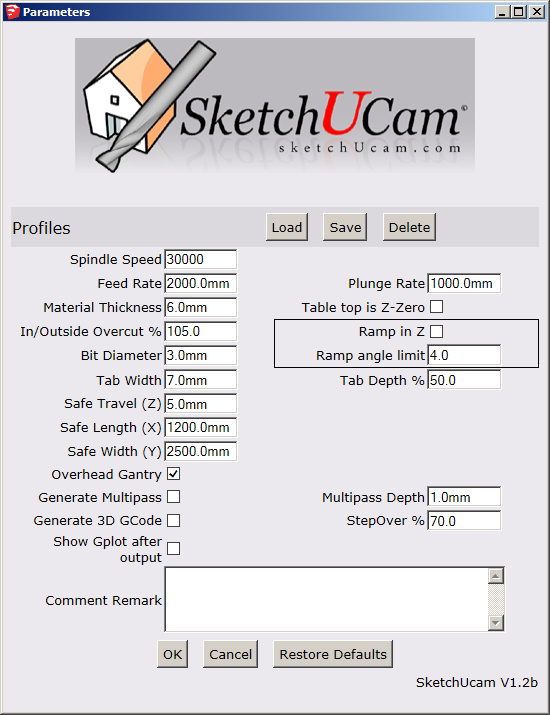
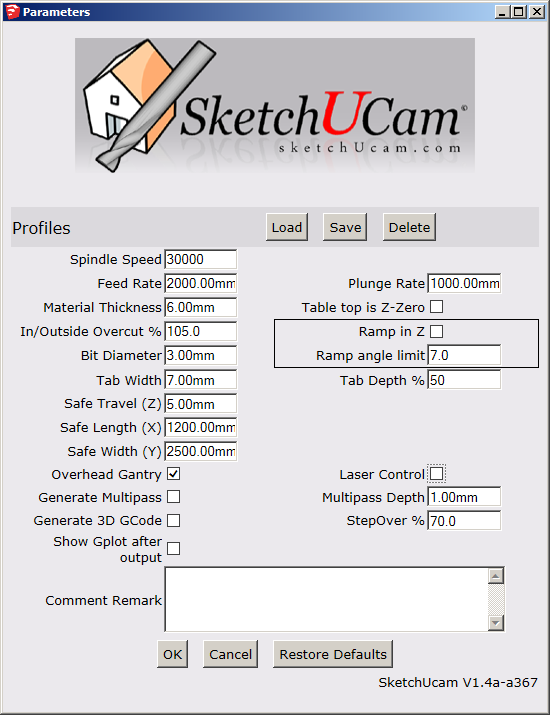
help for laser settings

diff --git a/Plugins/Phlatboyz/html/sketchucamtoolbar.html b/Plugins/Phlatboyz/html/sketchucamtoolbar.html
@@ -164,7 +164,7 @@
    <tbody>
    <tr>
       <td class="command-image" valign=top id="toolparameters">
-         <img alt="" src="../images/parameterstool_large.png" title="Enter Phlatboyz Parameters" width="32">
+         <img alt="Parameters dialog" src="../images/parameterstool_large.png" title="Enter Phlatboyz Parameters" width="32">
       </td>
       <td class="command-description">
       <img align=right src="images/params.png" title="params" border="0" style="margin-left: 10px;" alt="params menu">
@@ -201,10 +201,26 @@
          <li> "<u>Overhead Gantry</u>".  The original 2
          Phlatprinters cut from the bottom with a reversed Y axis. Use this option if you have a Phlatprinter3 or your
          cnc machine has an overhead gantry.  This will reverse the direction of the Inside and Outside cuts.<br>
-         See the <a href="howto_options.html">Options Menu help</a> for setting this as a default
-         <li style="color: red;">Laser ...
+         
+         <p>When this option is:<br>
+         <b>Ticked:</b> outside cuts will cut anticlockwise<br>(a conventional cut)<br>
+         <b>Unticked:</b>  outside cuts will cut clockwise<br>(a climb cut)
+         </p>
+         
+         See the <a href="howto_options.html">Options Menu help</a> for setting this as a default<br><br>
+         <li><u>"Laser Control"</u> [checkbox] <i>New in 1.4a</i>
+            <ul>
+            <li>Check this to control a laser engraver
+            <li>works with both Z-Zero options
+            <li>No Z motion will be in the Gcode output
+            <li>M03 (spindle on) and M05 (spindle off) will control the laser
+            <li>The S word will be set to control the brightness via PWM spindle control.
+            <li>The S word is set to a proportion of the current spindle speed, according to the depth of the cut.<br>
+               Thus a 50% deep centerline cut will set the S word to 50% of the spindle speed.
+            <li>If your laser needs on/off control, then simply always use 100% deep cuts and max spindle speed (1000rpm for default GRBL 0.9 settings).
+               With these settings the PWM control will effectively only turn hard on and hard off.
+            </ul>
          </ol>
-         <br><br>
 
          <p><u>Note</u>: When you press "OK", these settings will be saved as attributes to your
          sketchup model.  So each sketchup file will retain their individual settings.
@@ -212,12 +228,12 @@
          <br clear=all>
          <h3>Profiles</h3>
          <p class="newcolour">
-         <img alt="" src="images/profiles.png" align=right border=1  style="margin-left: 10px;">
+         <img alt="profiles" src="images/profiles.png" align=right border=1  style="margin-left: 10px;">
          New in 1.1c is the ability to save and restore tool profiles.  
          This allows you to quickly restore a tool setup that relates to a type of material or operation.  
          For example one might store the settings for a drilling operation with multipass on, low feed speeds etc.
          For a foam milling tool one can store high feed speeds, not multipass and so on.<br>
-         <img alt="" src="images/profilesave.png" align="right" border="0" style="margin-left: 10px;">
+         <img alt="profile save" src="images/profilesave.png" align="right" border="0" style="margin-left: 10px;">
          Clicking the <b>'Save'</b> button will produce a prompt for a profile name. 
          Profile names must not have spaces or punctuation in them.
          The following settings will be saved</p>
@@ -289,10 +305,34 @@
            
            <dt>Ramp in Z</dt>
            <dd>If this is unchecked Z will be plunged, if it is checked, Z will ramp into the workpiece along the first segment of the cut.   
-           Be aware that this cut may be very short and you may need to adjust cut order to get the cut to start on a longer segment.
-           The Plunge Feed Rate will be used for ramp moves.<br>
-           Note that ramping will not affect plunge holes, the center hole will still be plunged for holes larger than 2x bit diameter
-           so if your milling bit cannot plunge DO NOT use it for holes, do a separate drilling program with a drill bit.
+           Be aware that this cut may be very short and you may need to adjust cut order to get the cut to start on a longer segment.<br><br>
+           The Plunge Feed Rate will be used for ramp moves.<br><br>
+           
+           Note that <b>ramping</b> will affect <b>plunge holes</b> like this:
+           
+          <table border=1 cellpadding="5" cellspacing=0 summary="effects of plunge hole setting combinations" bgcolor="#ddeeff">
+          <tr>
+            <th>&nbsp;</th>
+            <th>dia = tooldia</th>
+            <th>tooldiam < dia <= 2D</th>
+            <th>dia > 2D</th>
+          </tr>
+          <tr>
+            <th>Stepover% < 50%</th>
+            <td style="color: red;">Will Plunge</td>
+            <td>no plunge, 2 spirals</td>
+            <td>no plunge, 2 or more spirals</td>
+          </tr>
+          <tr>
+            <th>stepover% > 50%</th>
+            <td style="color: red;">Will Plunge</td>
+            <td>no plunge, single spiral</td>
+            <td>no plunge, 2 or more spirals</td>
+          </table>
+           <p>
+           If you are making holes equal to the bit diameter in hard materials then you should use a <u>real drill bit</u> and 
+           do a seperate drilling cycle.
+           </p>
            </dd>
 
            <dt>Ramp angle limit</dt>
@@ -465,16 +505,16 @@
          
          <p>
          Feedrate in the helix will be the normal rate set for cuts.<br>
-         Downfeed will be limited to either
+         Downfeed will be limited to either</p>
          <ul>
          <li>half the bit diameter per revolution</li>
          <li>the multipass depth if multipass is on.</li>
          <li>the calculated Z feed if ramp angle is set, in order to achieve the correct helix angle.
          </ul>
-         </p>
+         
          
          <p>
-         <i>New in V1.2a</i> : <b>Plunge holes are automatically grouped.</b> <br>
+         <i>New in V1.2a</i> : <b>Plunge holes are automatically grouped.</b> </p>
             <p style="margin-left: 10px;">This (mostly) prevents underlying geometry from interfering with G-code generation. <br>
             Only an <b>underlying horizontal line will interfere</b> but in this case it is very easy to delete the 
             part that overlaps the colored 'hole' line, or, you can group the underlying line before placing the holes. <br>
@@ -482,7 +522,7 @@
             For example a plain 8mm hole will be named "_diam_8.0mm" and a depth restricted 9mm hole will be "_diam_9.0mm_depth_76.0".<br>
             This implies that holes will be cut in group order so don't forget to set the order with the Group Reorder tool if you need to. 
             </p>
-         </p>
+         
          
          
          <h4>Do many holes with large diameter</h4>
@@ -490,15 +530,15 @@
          Tap the HOME key to set 'LARGE LOCK' on and be prompted for a hole diameter that will persist until you select another tool or tap HOME again. 
          </p>
          
-         <table border=0 width=300 style="float: right;">
+         <table border=0 width=300 style="float: right;" summary="hoel patterns">
          <tr>
             <td>
-            <img src="images/holepattern01.png" align=right>
+            <img alt="hole pattern 1" src="images/holepattern01.png" align=right>
             </td>
          </tr>
          <tr>
             <td>
-            <img src="images/holepattern02.png" align=right>
+            <img alt="hole pattern 2" src="images/holepattern02.png" align=right>
             </td>
          </tr>
          </table>
@@ -509,7 +549,7 @@
          52/(7-1) =  52/6 = 8.666mm.
          </p>
          <p>If either Horiz or Vert count are '1' then you get only 1 row or column of holes.
-         <img src="images/holepattern03.png">
+         <img alt="hole pattern 3" src="images/holepattern03.png">
          </p>
          Notes:
          <ol class="newcolour">
@@ -530,18 +570,18 @@
                <li>Spiral out to desired diameter using either multipass depth layers, or a fuzzy calculated depth based on the bit diameter.
             </ol>   
             Change this option on the 
-            <a href="howto_options.html#a5"><b>Tools|PhlatBoys|Options|Hole feature options</b></a> menu<br>
-            <img src="images/options-holefeatures.png">
+            <a href="howto_options.html#a5"><b>Tools|PhlatBoys|Options|Hole feature options</b></a> menu<br><br>
+            <img alt="hole features" src="images/options-holefeatures.png">
          </ol>
       </td>
    </tr>
 
    <tr>
       <td class="command-image" valign=top id="toolcsink">
-         <img alt="" src="../images/csinktool_large.png" title="Phlatboyz Countersink Tool" width="32">
+         <img alt="countersink iamge" src="../images/csinktool_large.png" title="Phlatboyz Countersink Tool" width="32">
       </td>
       <td class="command-description">
-         <img src="images/csinkwooda.png" align=right>
+         <img alt="countersink in wood" src="images/csinkwooda.png" align=right>
          <b>CounterSink/CounterBore hole Tool</b> - (V1.4)
          This tool is used to create a plunge point WITH a CounterSINK or CounterBORE at any given cursor position.  
          <p>The example pictured at right was created using a 9mm straight flute bit.  The hole is 12mm diameter, 15mm deep, 
@@ -551,7 +591,7 @@
          
          <br clear=all>
          <p>
-         <img src="images/csink03.png" align=right width="55%">
+         <img alt ="countersink 3" src="images/csink03.png" align=right width="55%">
          When you click the icon to select this tool, you will see a dialog box as pictured at right.<br>
 
          This permits you to set the values you want for your CounterSINK/BORE holes.<br>  
@@ -561,7 +601,7 @@
          
             
          <h4>The Countersink tool</h4>
-         <p><img src="images/csink01.png" align=right >
+         <p><img alt="countersink tool" src="images/csink01.png" align=right >
          The <b>Countersink</b> tool creates a grouped symbol of 2 circles with a blue radius line extending from the center to the outside diameter of the inner circle.<br>
          The inner circle is the current bit diameter, or the hole diameter given in the dialog, which must be greater than the bit diameter.<br>
          The outer circle is 8 sided, coloured blue, and represents the diameter given for the countersink portion of the hole. 
@@ -574,11 +614,11 @@
          Use the one that matches your screws! Angle is limited to >= 70 and < 180 degrees.
          </p>
          <br clear=all>
-         <table border=0 align=right>
+         <table border=0 align=right summary="countersink patterns">
          <tr>
             <td>
-            <img src="images/csink02.png"><br>
-            <img src="images/csink04.png">
+            <img alt="csink 02" src="images/csink02.png"><br>
+            <img alt="csink 04" src="images/csink04.png">
             </td>
          </tr>
          </table>
